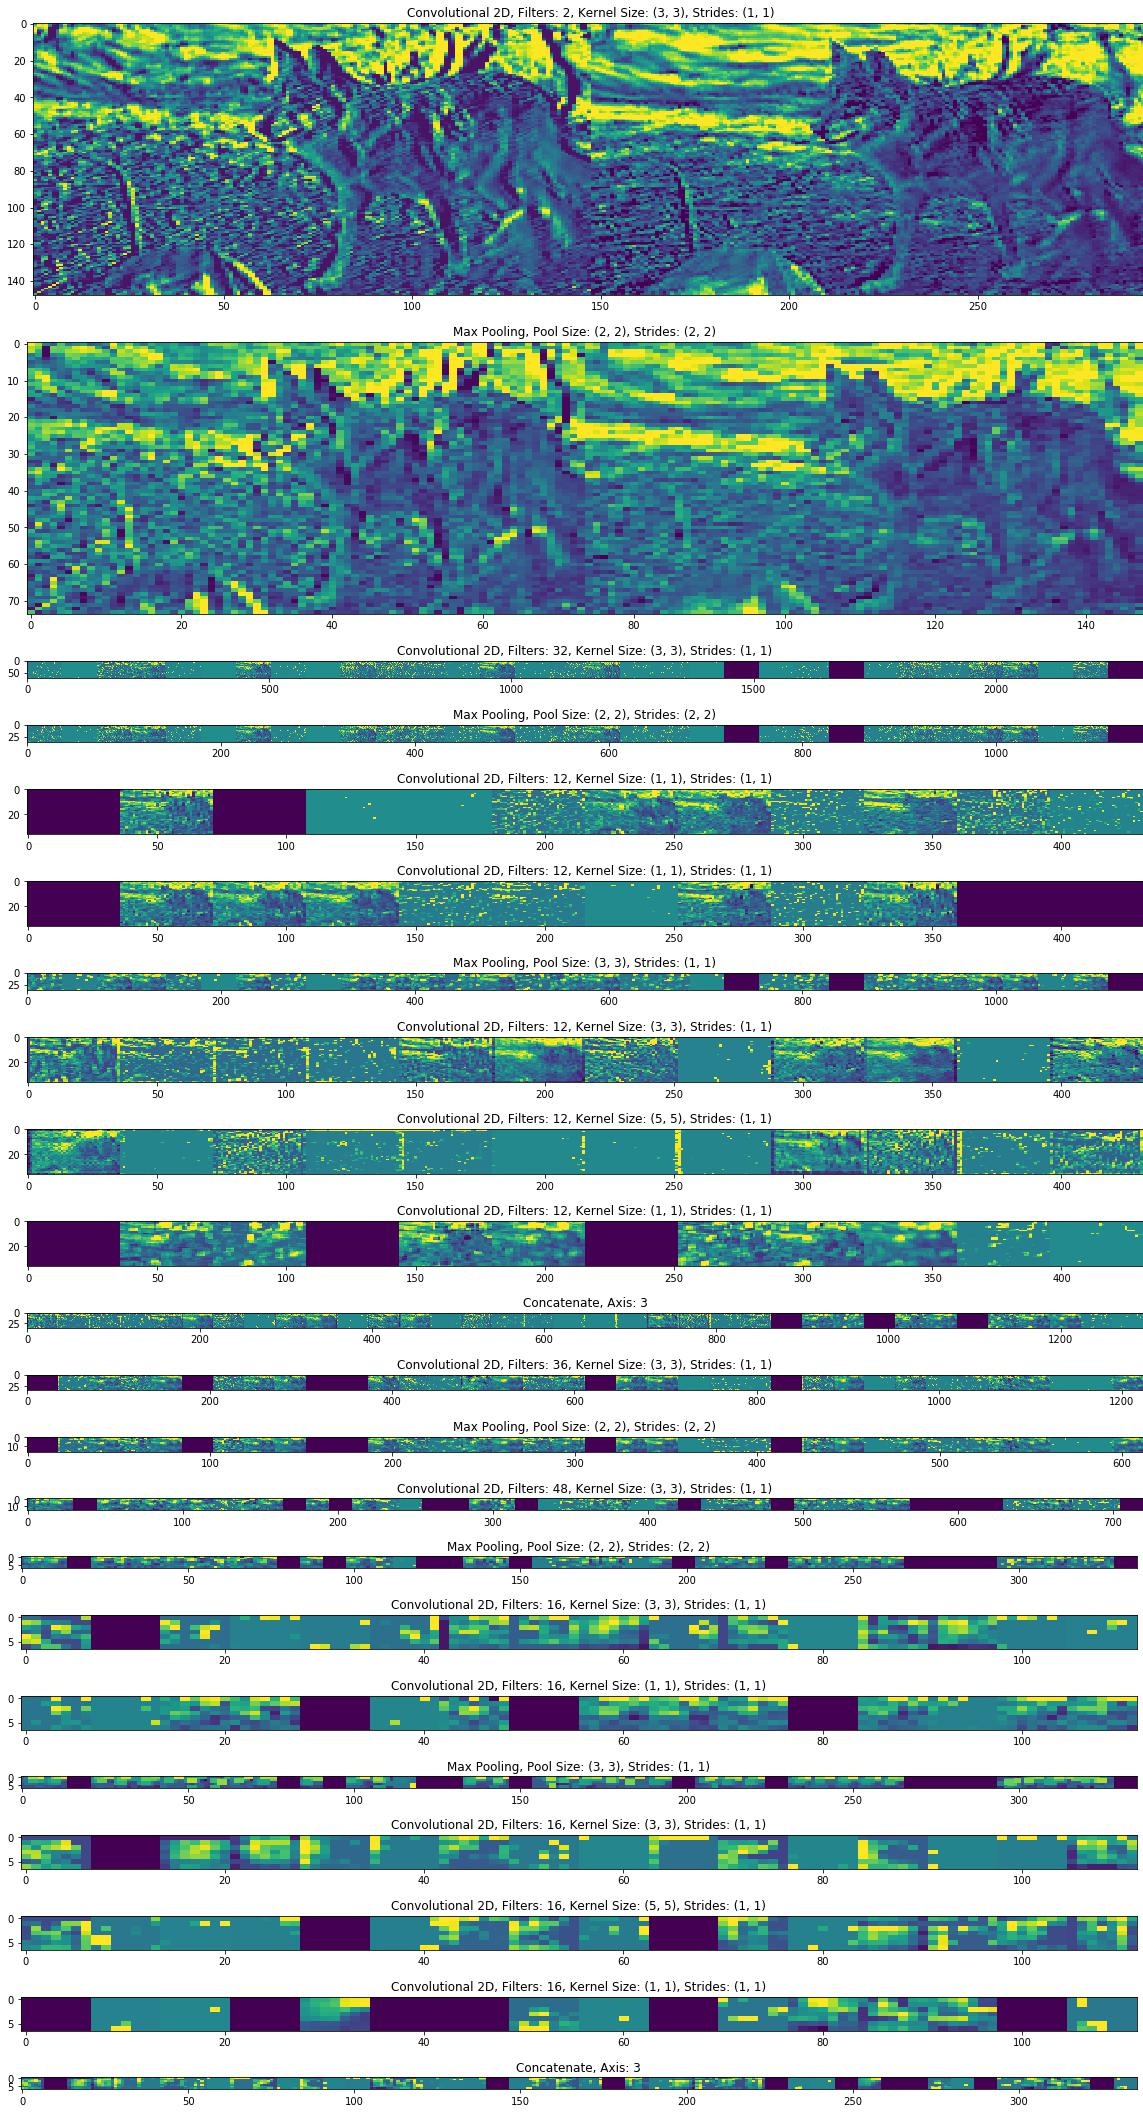
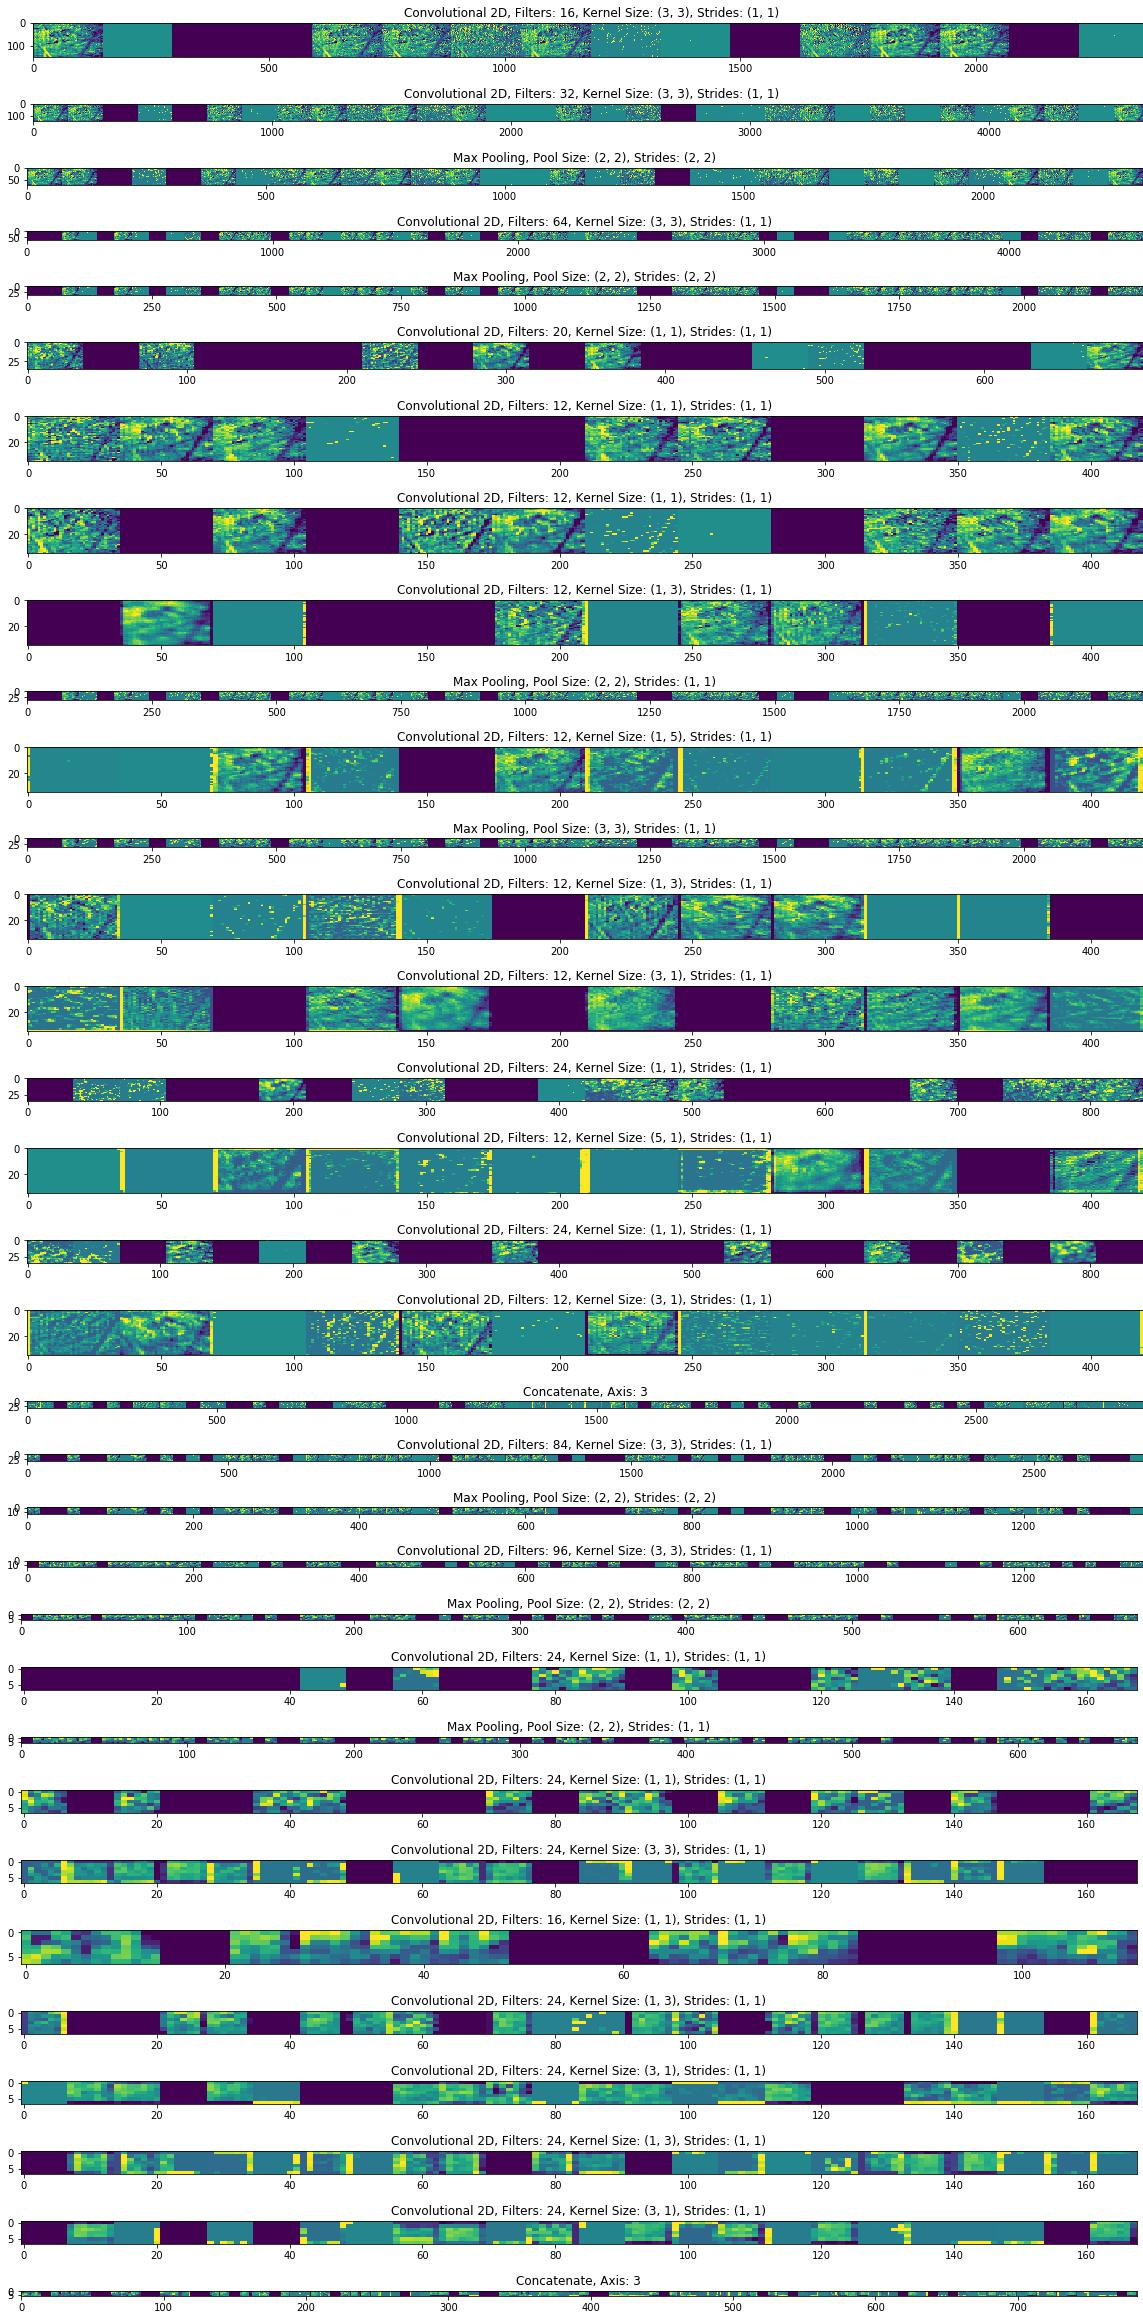
Some updates

diff --git a/Inception.py b/Inception.py
@@ -11,41 +11,60 @@ from constants import github_drive_location
 
 input_img = Input(shape=(150, 150, 3))
 
-layer_1 = Conv2D(2, (3,3), activation='relu')(input_img)
-layer_2 = MaxPooling2D((2,2))(layer_1)
+layer_1 = Conv2D(16, (3,3), activation='relu')(input_img)
+layer_2 = Conv2D(32, (3,3), activation='relu')(layer_1)
+layer_3 = MaxPooling2D((2,2))(layer_2)
 
-layer_3 = Conv2D(32, (3,3), activation='relu')(layer_2)
-layer_4 = MaxPooling2D((2,2))(layer_3)
+layer_4 = Conv2D(64, (3,3), activation='relu')(layer_3)
+layer_5 = MaxPooling2D((2,2))(layer_4)
     
 ### 1st layer
-layer_1_inception = Conv2D(12, (1,1), padding='same', activation='relu')(layer_4)
-layer_2_inception = Conv2D(12, (3,3), padding='same', activation='relu')(layer_1_inception)
+layer_1_1_inception = Conv2D(20, (1,1), padding='same', activation='relu')(layer_5)
+layer_1_2_inception = MaxPooling2D((2,2), strides=(1,1), padding='same')(layer_5)
+layer_1_3_inception = Conv2D(12, (1,1), padding='same', activation='relu')(layer_5)
+layer_1_4_inception = MaxPooling2D((3,3), strides=(1,1), padding='same')(layer_5)
+layer_1_5_inception = Conv2D(12, (1,1), padding='same', activation='relu')(layer_5)
 
-layer_3_inception = Conv2D(12, (1,1), padding='same', activation='relu')(layer_4)
-layer_4_inception = Conv2D(12, (5,5), padding='same', activation='relu')(layer_3_inception)
+### 2nd layer
+layer_2_1_inception = Conv2D(12, (1,3), padding='same', activation='relu')(layer_1_1_inception)
+layer_2_2_inception = Conv2D(24, (1,1), padding='same', activation='relu')(layer_1_2_inception)
+layer_2_3_inception = Conv2D(12, (1,5), padding='same', activation='relu')(layer_1_3_inception)
+layer_2_4_inception = Conv2D(24, (1,1), padding='same', activation='relu')(layer_1_4_inception)
+layer_2_5_inception = Conv2D(12, (1,3), padding='same', activation='relu')(layer_1_5_inception)
 
-layer_5_inception = MaxPooling2D((3,3), strides=(1,1), padding='same')(layer_4)
-layer_6_inception = Conv2D(12, (1,1), padding='same', activation='relu')(layer_5_inception)
+### 3rd layer
+layer_3_1_inception = Conv2D(12, (3,1), padding='same', activation='relu')(layer_2_1_inception)
+layer_3_2_inception = Conv2D(12, (5,1), padding='same', activation='relu')(layer_2_3_inception)
+layer_3_3_inception = Conv2D(12, (3,1), padding='same', activation='relu')(layer_2_5_inception)
 
-mid_1 = tf.keras.layers.concatenate([layer_2_inception, layer_4_inception, layer_6_inception], axis = 3)
+mid_1 = tf.keras.layers.concatenate([layer_3_1_inception, layer_2_2_inception,
+                                     layer_3_2_inception, layer_2_4_inception,
+                                     layer_3_3_inception], axis = 3)
 
-layer_5 = Conv2D(36, (3,3), activation='relu')(mid_1)
-layer_6 = MaxPooling2D((2,2))(layer_5)
+layer_6 = Conv2D(84, (3,3), activation='relu')(mid_1)
+layer_7 = MaxPooling2D((2,2))(layer_6)
 
-layer_7 = Conv2D(48, (3,3), activation='relu')(layer_6)
-layer_8 = MaxPooling2D((2,2))(layer_7)
-    
-### 1st layer
-layer_7_inception = Conv2D(16, (3,3), padding='same', activation='relu')(layer_8)
-layer_8_inception = Conv2D(16, (3,3), padding='same', activation='relu')(layer_7_inception)
+layer_8 = Conv2D(96, (3,3), activation='relu')(layer_7)
+layer_9 = MaxPooling2D((2,2))(layer_8)
 
-layer_9_inception = Conv2D(16, (1,1), padding='same', activation='relu')(layer_8)
-layer_10_inception = Conv2D(16, (5,5), padding='same', activation='relu')(layer_9_inception)
+### 4st layer
+layer_4_1_inception = Conv2D(24, (1,1), padding='same', activation='relu')(layer_9)
+layer_4_2_inception = MaxPooling2D((2,2), strides=(1,1), padding='same')(layer_9)
+layer_4_3_inception = Conv2D(24, (1,1), padding='same', activation='relu')(layer_9)
 
-layer_11_inception = MaxPooling2D((3,3), strides=(1,1), padding='same')(layer_8)
-layer_12_inception = Conv2D(16, (1,1), padding='same', activation='relu')(layer_11_inception)
+### 5th layer
+layer_5_1_inception = Conv2D(24, (3,3), padding='same', activation='relu')(layer_4_1_inception)
+layer_5_2_inception = Conv2D(16, (1,1), padding='same', activation='relu')(layer_4_2_inception)
+layer_5_3_inception = Conv2D(24, (1,3), padding='same', activation='relu')(layer_4_3_inception)
+layer_5_4_inception = Conv2D(24, (3,1), padding='same', activation='relu')(layer_4_3_inception)
 
-mid_2 = tf.keras.layers.concatenate([layer_8_inception, layer_10_inception, layer_12_inception], axis = 3)
+### 5th layer
+layer_6_1_inception = Conv2D(24, (1,3), padding='same', activation='relu')(layer_5_1_inception)
+layer_6_2_inception = Conv2D(24, (3,1), padding='same', activation='relu')(layer_5_1_inception)
+
+mid_2 = tf.keras.layers.concatenate([layer_5_2_inception, layer_5_3_inception,
+                                     layer_5_4_inception, layer_6_1_inception,
+                                     layer_6_2_inception], axis = 3)
 
 flat_1 = Flatten()(mid_2)
 

diff --git a/main_execution.py b/main_execution.py
@@ -2,7 +2,7 @@
 
 import matplotlib.pyplot as plt
 import tensorflow.contrib.eager as tfe
-tfe.enable_eager_execution()
+#tfe.enable_eager_execution()
 
 from constants import external_drive_location
 import callback as callback_file
@@ -30,18 +30,14 @@ display("buffalo", training_directory).numberOfTimes(4)
 
 # Fit the model using the training and validation generators, specify the number of 
 # epochs to train for and how descriptive the output should be
-try:
-    history = my_model.fit_generator(
-    train_generator,
-    validation_data = validation_generator,
-    steps_per_epoch = 50,
-    epochs = 20,
-    validation_steps = 50,
-    verbose = 1,
-    callbacks=[callback_file.myCallback()])
-except:
-    print("Training interrupted, saving model")
-    my_model.save_weights(external_drive_location + "\\V3_Parthiv_Attempt_1_Interrupt.h5")
+history = my_model.fit_generator(
+train_generator,
+validation_data = validation_generator,
+steps_per_epoch = 50,
+epochs = 20,
+validation_steps = 50,
+verbose = 1,
+callbacks=[callback_file.myCallback()])
     
 acc = history.history['acc']
 val_acc = history.history['val_acc']

diff --git a/visualization_by_layer.py b/visualization_by_layer.py
@@ -111,8 +111,8 @@ class visualization_by_layer():
                 get_layer_information(layer.name.lower())
                 
                 plt.grid(False)
-                #plt.imshow(display_grid, aspect='auto', cmap='viridis')
-                
+                # Displays the plot in the console
+                plt.imshow(display_grid, aspect='auto', cmap='viridis')
                 # Saves the output of every layer in the specified folder so they
                 # can be combined later
                 plt.savefig(visualizations + '\\' + str(position) + '.png', bbox_inches='tight')
